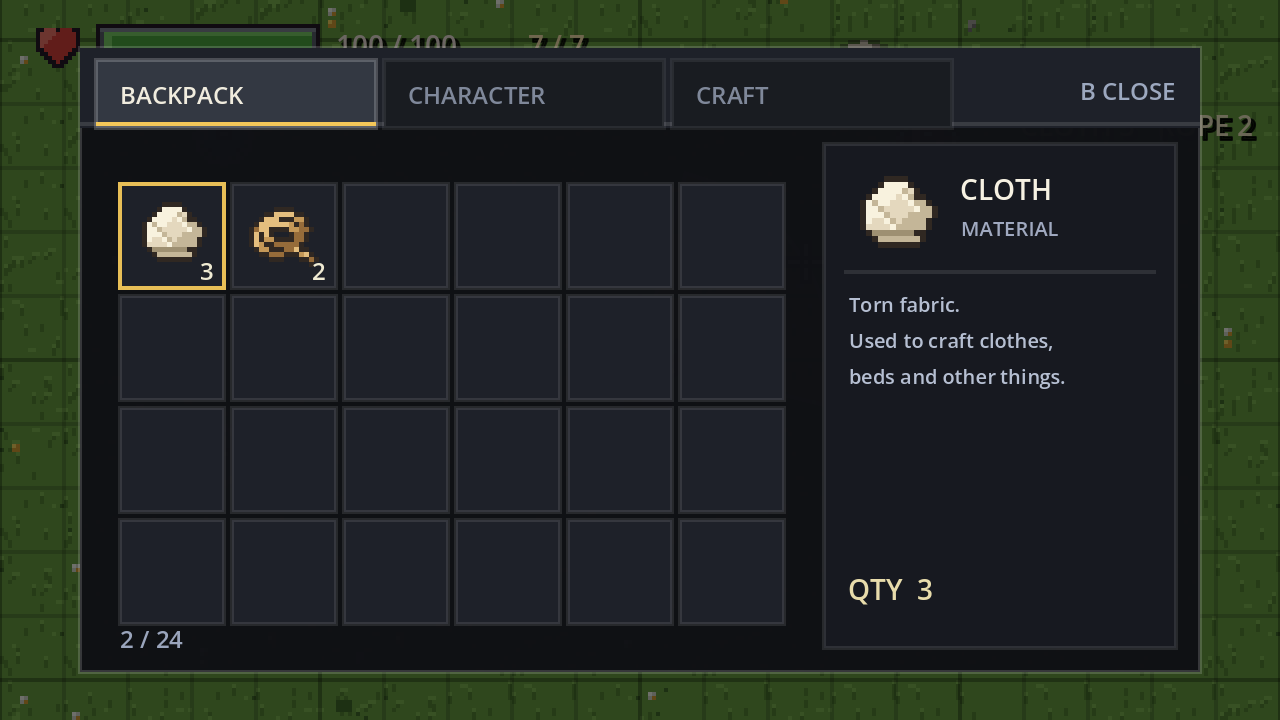
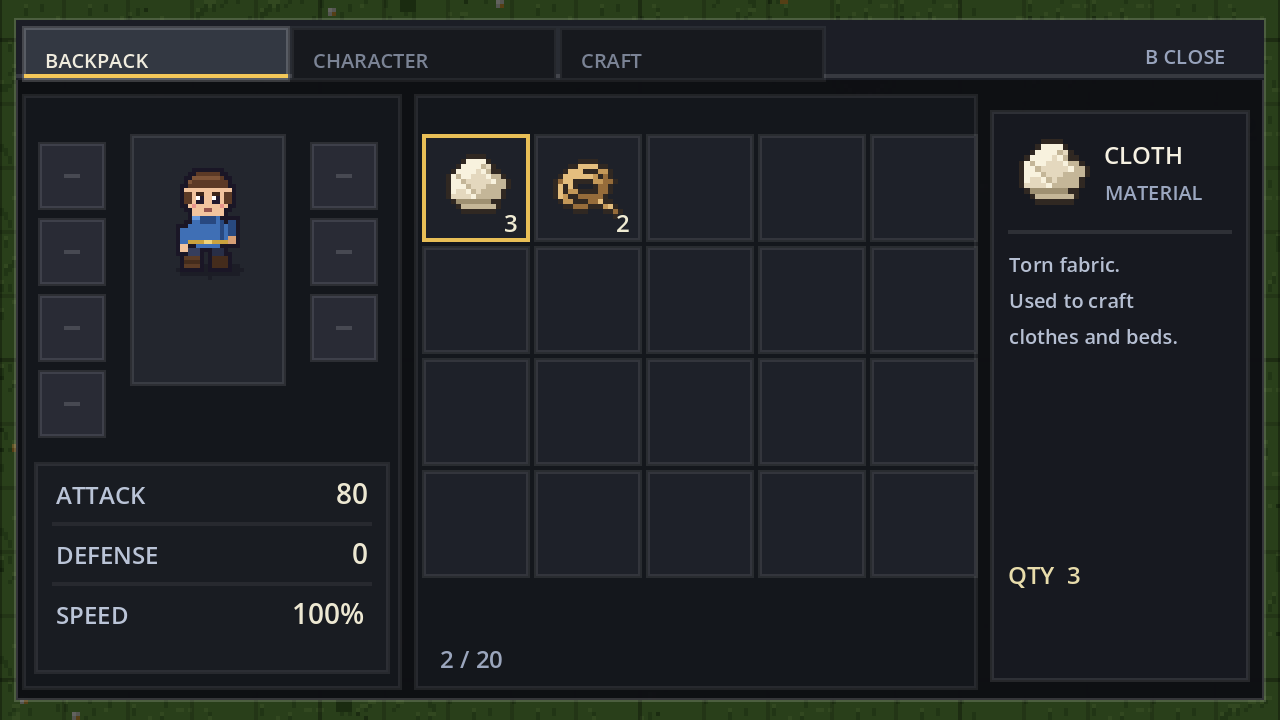
feat: 背包界面补全（装备栏 + 人物预览 + 属性框 ATTACK/DEFENSE/SPEED）

diff --git a/README.md b/README.md
@@ -613,9 +613,14 @@ after 3.5s-> 0 只（确认不再刷）
   （标题 `CRAFT`）；再按 **E** 或 **Tab** 关闭（面板开着时建造模式锁住，走远了也会自动关）。
   **面板里暂时不列建筑和配方**，只显示 `NO RECIPES YET`，等做了配方表再往里填。
 - **背包界面（B）**：`scenes/inventory.tscn` 是 autoload（`CanvasLayer` + `Control`），按 **B** 打开，
-  打开时暂停游戏、再按 B 或点右上角提示关闭。里面是「BACKPACK / CHARACTER / CRAFT」三个页签
-  （目前只有 BACKPACK 可用）、6×4 的物品格子（图标 + 数量）、右侧详情（名字 / 类型 / 描述 / 数量），
-  左下角显示 `已用格数 / 总格数`。物品表在 `inventory_ui.gd` 的 `ITEMS` 里，数量读 `GameState`。
+  打开时暂停游戏、再按 B 关闭。布局模仿生存游戏：
+  - 顶部页签 `BACKPACK / CHARACTER / CRAFT`（只有 BACKPACK 可用）
+  - **左侧**：装备格 4+3 个（帽子/外套/裤子/鞋 · 武器/背包/饰品，目前都是空格）+ 中间**人物预览**
+    （取 `character_sheet.png` 的站立帧）+ 下方**属性框** `ATTACK / DEFENSE / SPEED`
+    （攻击取当前武器伤害，防御 0，速度 100%）
+  - **中间**：5×4 物品格子（图标 + 数量，选中黄框），左下角 `已用 / 总格数`
+  - **右侧**：物品详情（大图标 + 名字 + 类型 + 描述 + `QTY n`）
+  物品表在 `inventory_ui.gd` 的 `ITEMS` 里，数量读 `GameState`。
 - **击杀掉落**：普通僵尸死亡时独立判定 —— **25% 掉 1 个布料**、**10% 掉 1 个绳子**
   （`zombie.gd::_die()`，400 只实测 24.5% / 10.8%）。掉落物是 `scenes/pickup.tscn`（Area2D，
   上下轻浮、**画在血迹上面**（掉落物 `z_index = 3`，血迹是 2），头顶暂时显示物品名字 `CLOTH` / `ROPE`
